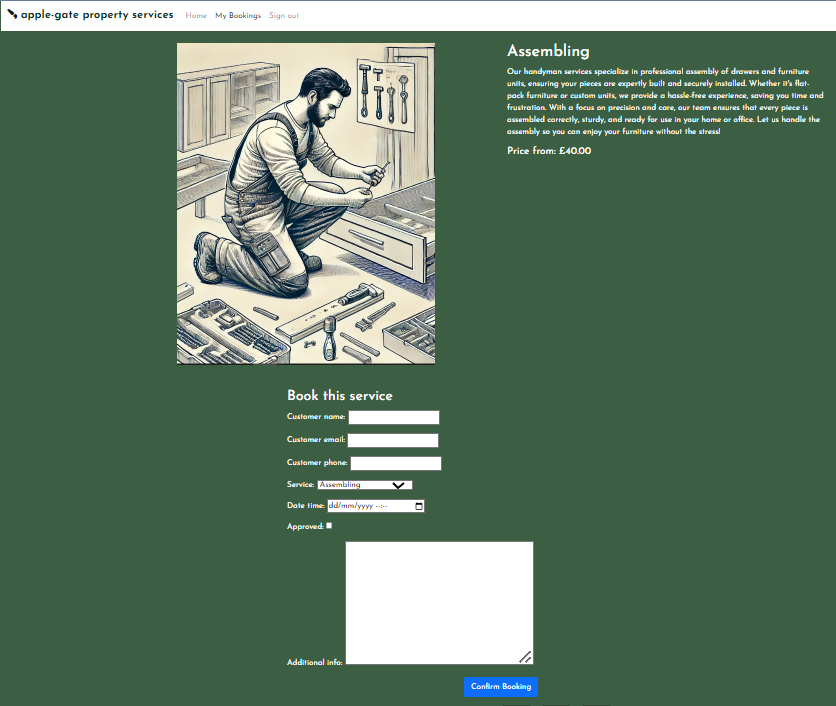
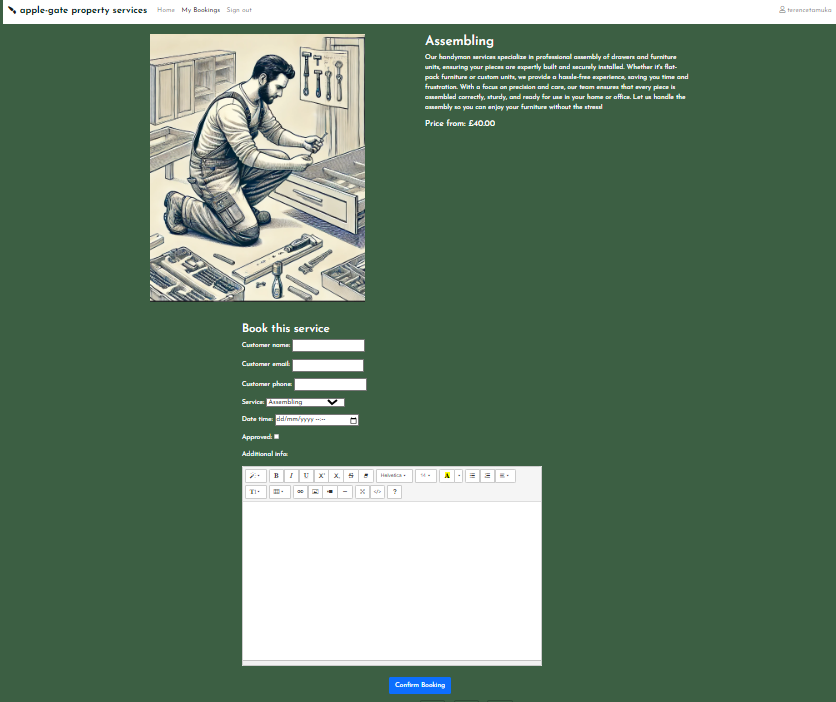
Added three more iPad view wireframes for my bookings page, registration page & booking form page

Changed region(s): [[0.0, 0.0, 1.0, 1.0]]

diff --git a/README.md b/README.md
@@ -388,6 +388,9 @@ __Desktop-View - Book a service Page__
 __Homepage view for registered, unregistered user & Edit Booking pages__
 ![ipad view for registered, unregistered user and edit booking pages](static/images/ipad-view-homepages-editbooking-page.png)
 
+__My bookings, Registration Form & Booking form Pages__
+![ipad view for my bookings, registration form and booking form page](static/images/ipad-view-mybookings-registrationform-bookingform-page.png)
+
 </details>
 <hr>
 
@@ -455,7 +458,7 @@ The Epic, User Stories and Kanban board can be accessed here : [Handyman Service
 
 ### Frameworks, Libraries & Programs Used
 
--   [Google Fonts:](https://fonts.google.com/) used for the Lato font
+-   [Google Fonts:](https://fonts.google.com/) used for the Josefin Sans font
 -   [Font Awesome:](https://fontawesome.com/) was used to add icons for aesthetic and UX purposes.
 -   [Git:](https://git-scm.com/) was used for version control by utilising the Gitpod terminal to commit to Git and Push to GitHub.
 -   [GitHub:](https://github.com/) is used as the respository for the project code after being pushed from Git. In addition, for this project GitHub was used for the agile development aspect through the use of User Stories (GitHub Issues) and tracking them on a Kanban board.
@@ -532,7 +535,9 @@ Once code changes have been completed and tested on localhost, the application c
 
 ## Credits 
 
-Used this README https://github.com/elainebroche-dev/pf4-wayfarers-guided-hikes/blob/main/README.md as a base skeleton for my README.
+- Used this README https://github.com/elainebroche-dev/pf4-wayfarers-guided-hikes/blob/main/README.md as a base skeleton for my README.
+
+- [Chat GPT](https://chatgpt.com/) - AI tool used to generate the images used in the project website.
 
 ### Code 
 - 
